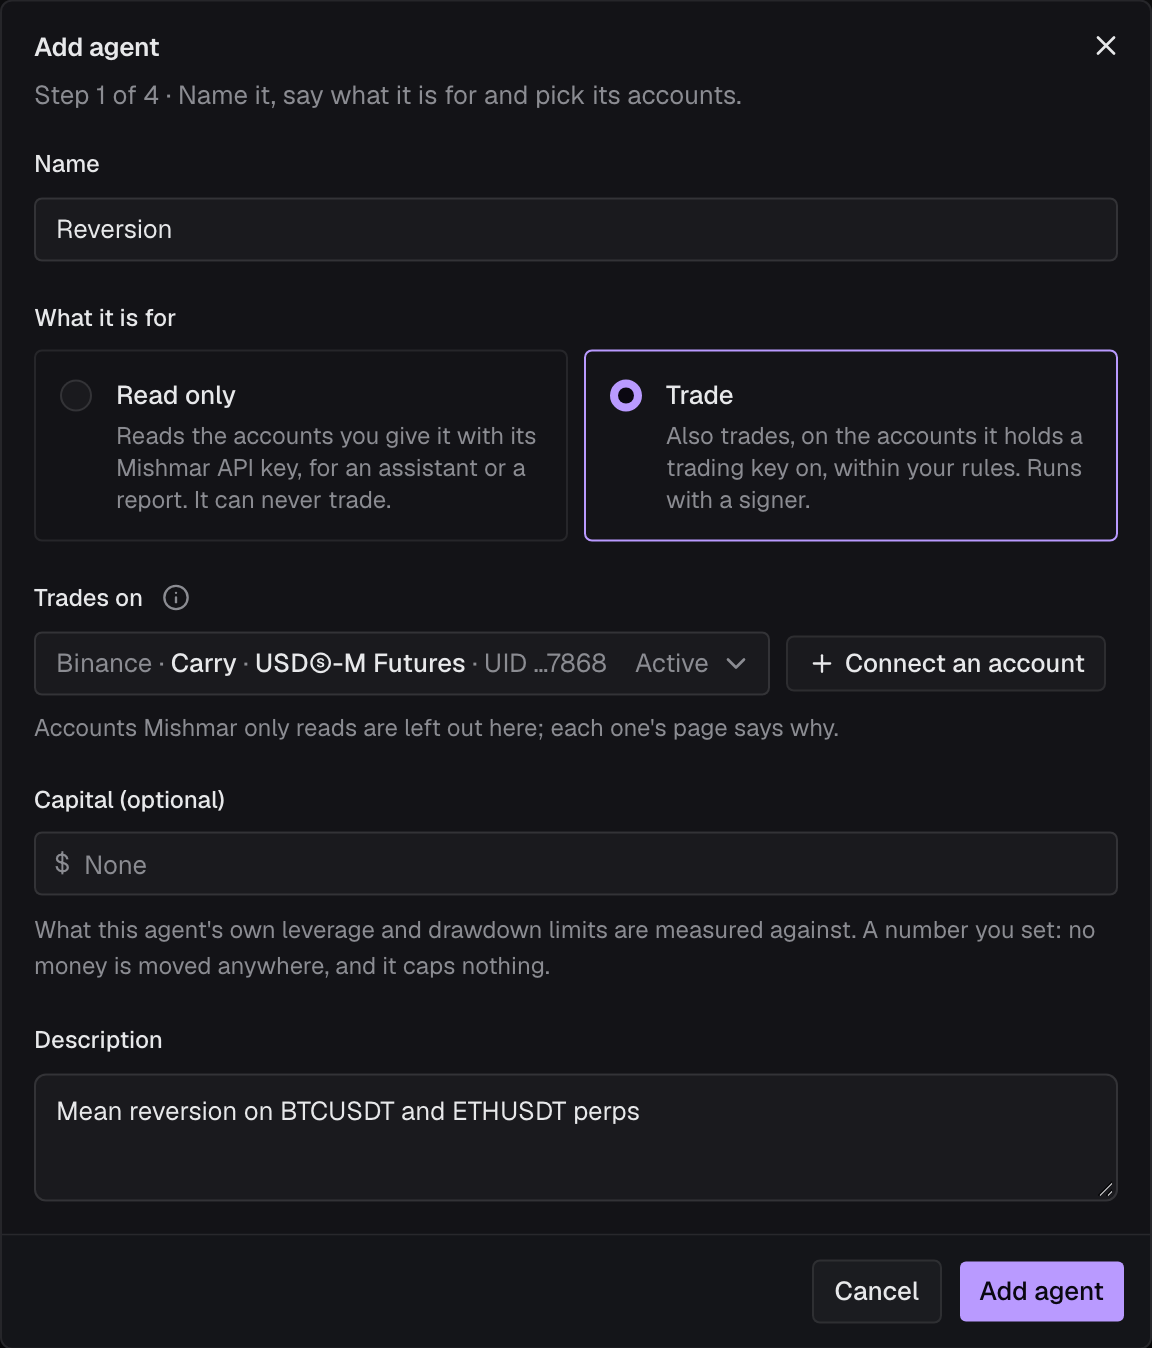
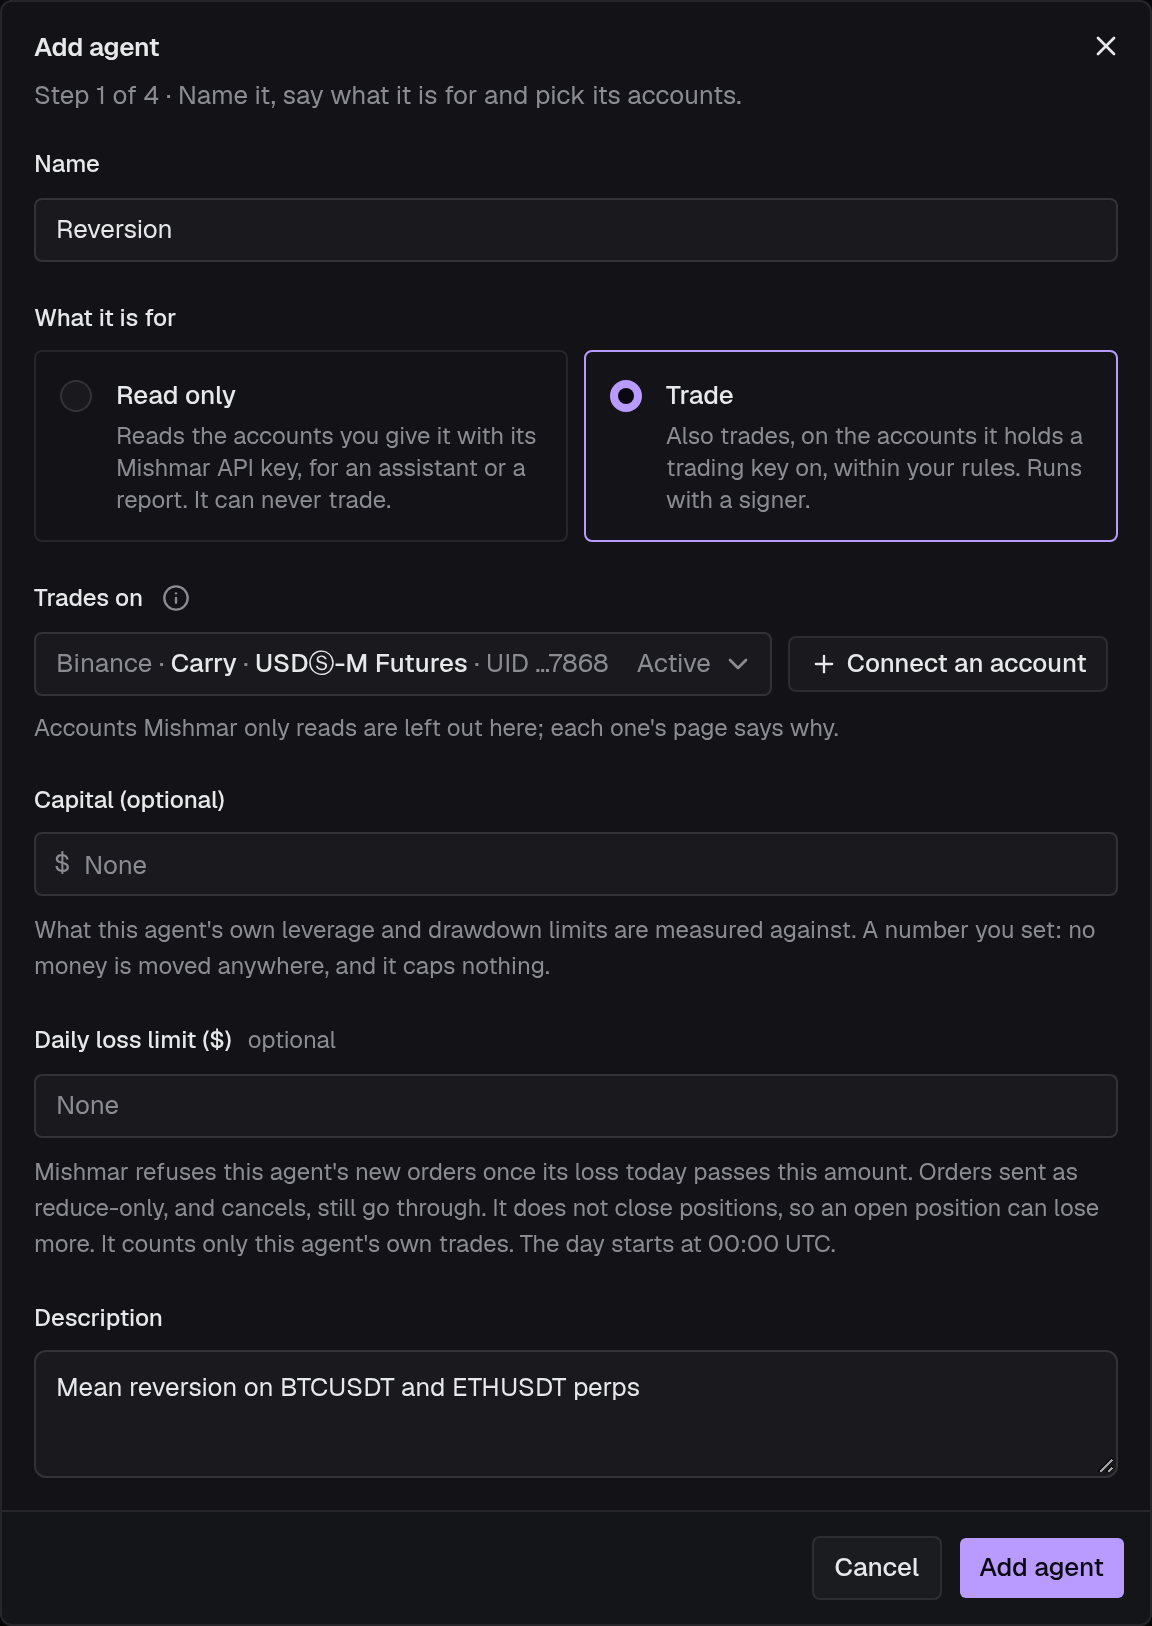
Docs: retake the two add-an-agent form screenshots with the Daily loss limit field
Console #33 put the Daily loss limit ($) field into Add agent's first step, and the two
add-an-agent pages already name it (the commit before this one). Their screenshots of that
step were taken before the field existed, so the pages would have shown a form without it.
Both shots are retaken from console main 3e67bc2 with the docs' own scripts, unchanged, and
the two image descriptions now say the field is left empty, as the shots show (MIS-250).

diff --git a/docs/src/content/docs/hyperliquid/add-an-agent.md b/docs/src/content/docs/hyperliquid/add-an-agent.md
@@ -41,7 +41,7 @@ In the console, open **Agents** and click **Add agent**. The dialog has four ste
 - **Daily loss limit ($)** (optional): Mishmar refuses this agent's new orders once its loss today passes this amount. Orders sent as reduce-only, and cancels, still go through. It does not close positions, so an open position can lose more. It counts only this agent's own trades. The day starts at 00:00 UTC. If you fill it in, the console makes a daily loss rule on this agent, and you change it on the Rules page like any other rule.
 - **Description** (optional): what it trades and how.
 
-![Step 1 of 4, Add agent: the name Trend follower, Trade chosen under What it is for, Trades on set to Hyperliquid · Main · Perps with Connect an account beside it, Capital left empty, and a description](/screens/hyperliquid/add-an-agent/add-agent.png)
+![Step 1 of 4, Add agent: the name Trend follower, Trade chosen under What it is for, Trades on set to Hyperliquid · Main · Perps with Connect an account beside it, Capital and Daily loss limit ($) left empty, and a description](/screens/hyperliquid/add-an-agent/add-agent.png)
 
 Click **Add agent**. The console may ask you to confirm with your passkey or wallet first; the proof lasts ten minutes. Mishmar creates the agent, issues its Mishmar API key, gives it the account and sets a trading key aside on it, all at once. The agent reads the account it trades on too: [What Mishmar keeps of your accounts](/concepts/what-mishmar-keeps-of-your-accounts/) says what it can read.
 

diff --git a/docs/src/content/docs/binance/add-an-agent.md b/docs/src/content/docs/binance/add-an-agent.md
@@ -37,7 +37,7 @@ In the console, open **Agents** and click **Add agent**. The dialog has four ste
 - **Daily loss limit ($)** (optional): Mishmar refuses this agent's new orders once its loss today passes this amount. Orders sent as reduce-only, and cancels, still go through. It does not close positions, so an open position can lose more. It counts only this agent's own trades. The day starts at 00:00 UTC. If you fill it in, the console makes a daily loss rule on this agent, and you change it on the Rules page like any other rule.
 - **Description** (optional): what it trades and how.
 
-![Step 1 of 4, Add agent: the name Reversion, Trade chosen under What it is for, Trades on set to a Binance USDⓈ-M Futures account with Connect an account beside it, Capital left empty, and a description](/screens/binance/add-an-agent/add-agent.png)
+![Step 1 of 4, Add agent: the name Reversion, Trade chosen under What it is for, Trades on set to a Binance USDⓈ-M Futures account with Connect an account beside it, Capital and Daily loss limit ($) left empty, and a description](/screens/binance/add-an-agent/add-agent.png)
 
 Click **Add agent**. The console may ask you to confirm with your passkey or wallet first; the proof lasts ten minutes. Mishmar creates the agent, issues its Mishmar API key, gives it the account and sets a trading key aside on it, all at once. The agent reads the account it trades on too: [What Mishmar keeps of your accounts](/concepts/what-mishmar-keeps-of-your-accounts/) says what it can read.
 
